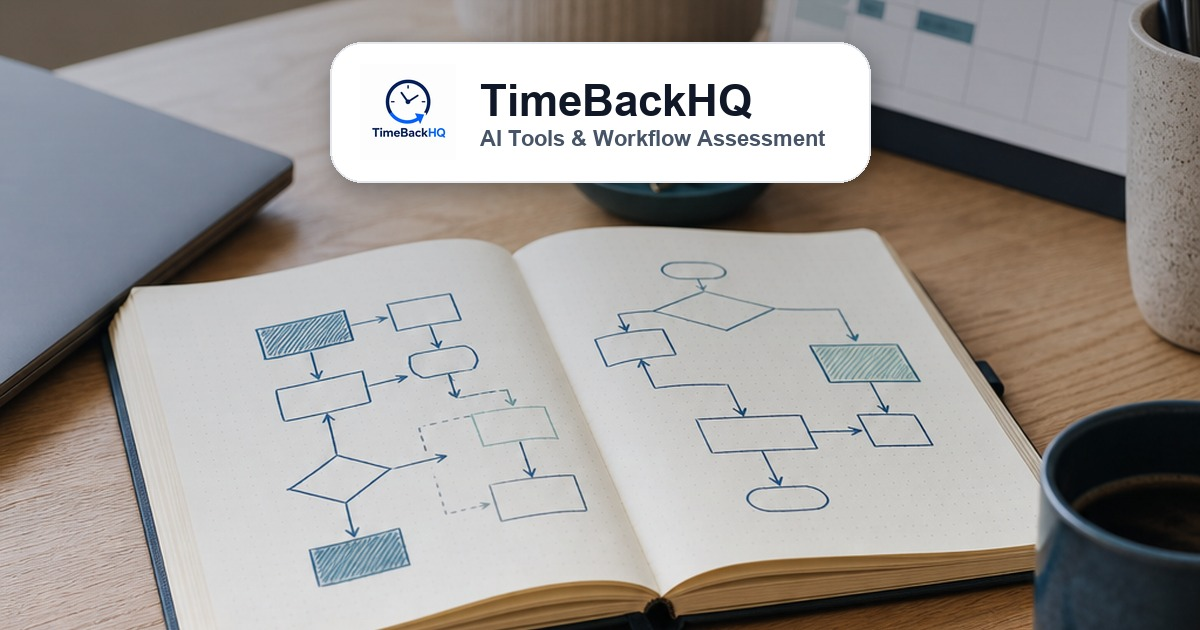
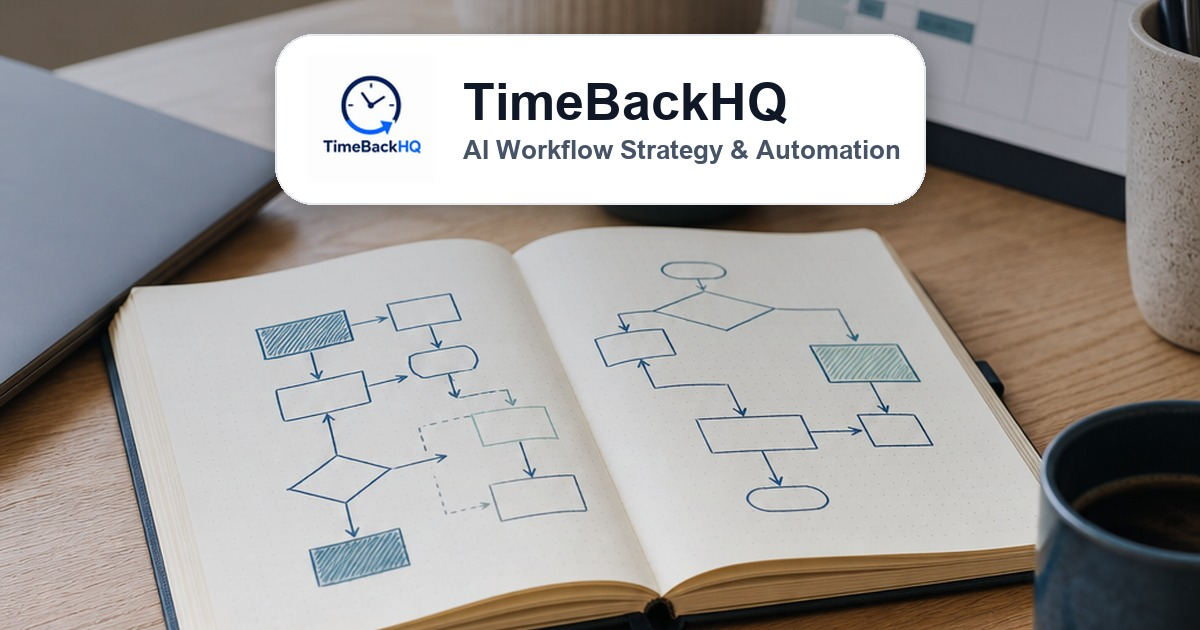
Refine TimeBackHQ social share card

Changed region(s): [[0.2158, 0.0302, 0.8017, 0.3619]]

diff --git a/index.html b/index.html
@@ -3,19 +3,19 @@
 <head>
   <meta charset="utf-8" />
   <meta name="viewport" content="width=device-width, initial-scale=1" />
-  <title>TimeBackHQ | AI Tools & Workflow Assessment</title>
+  <title>TimeBackHQ | AI Workflow Strategy & Automation</title>
   <meta name="description" content="TimeBackHQ helps owner-led businesses find and remove workflow friction with practical AI tools, automation, and process improvement." />
   <meta property="og:type" content="website" />
   <meta property="og:site_name" content="TimeBackHQ" />
-  <meta property="og:title" content="TimeBackHQ | AI Tools & Workflow Assessment" />
-  <meta property="og:description" content="Practical AI workflow help for owner-led businesses." />
+  <meta property="og:title" content="TimeBackHQ | AI Workflow Strategy & Automation" />
+  <meta property="og:description" content="AI workflow strategy, automation, and practical systems improvement for owner-led businesses." />
   <meta property="og:url" content="http://timebackhq.com/" />
   <meta property="og:image" content="http://timebackhq.com/assets/timebackhq-share-card.jpg" />
   <meta property="og:image:width" content="1200" />
   <meta property="og:image:height" content="630" />
   <meta name="twitter:card" content="summary_large_image" />
-  <meta name="twitter:title" content="TimeBackHQ | AI Tools & Workflow Assessment" />
-  <meta name="twitter:description" content="Practical AI workflow help for owner-led businesses." />
+  <meta name="twitter:title" content="TimeBackHQ | AI Workflow Strategy & Automation" />
+  <meta name="twitter:description" content="AI workflow strategy, automation, and practical systems improvement for owner-led businesses." />
   <meta name="twitter:image" content="http://timebackhq.com/assets/timebackhq-share-card.jpg" />
   <style>
     :root{
